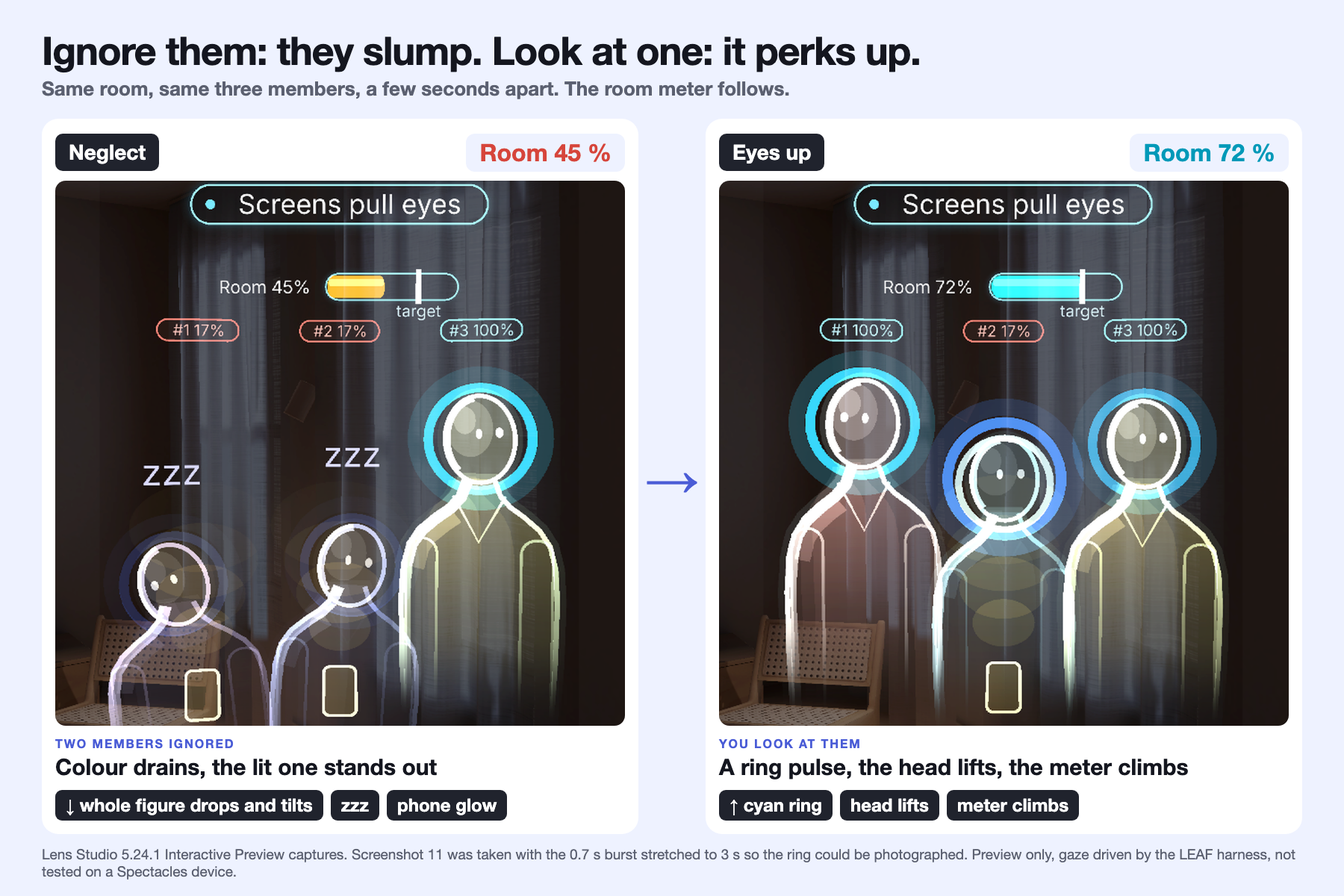
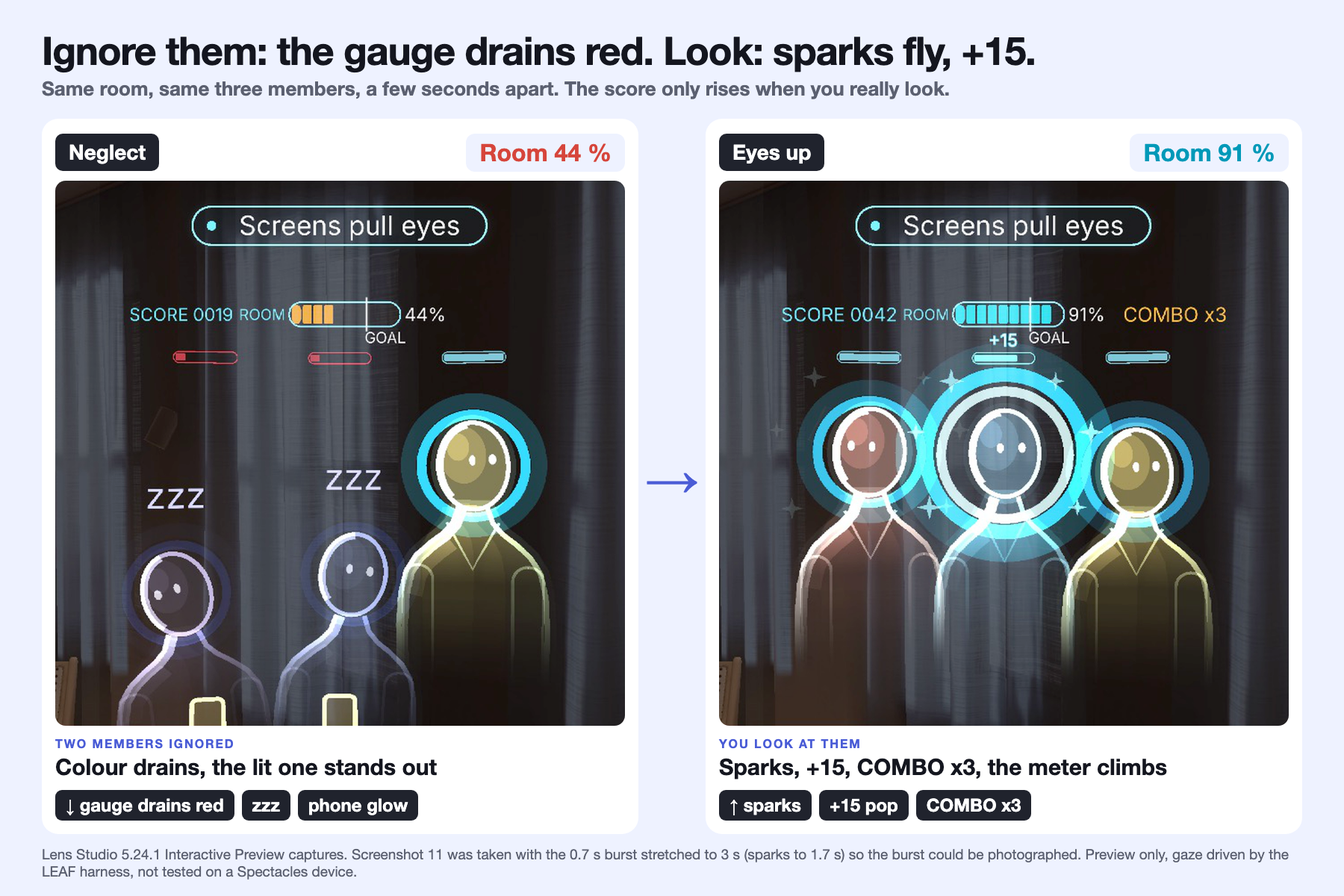
feat: game-layer stills and copy - level select, score and combo, gauges, sparks and NEW BEST in every devpost image and walkthrough still, sparks follow the burst for captures, bigger Again, spec-matrix and build notes

diff --git a/scripts/gallery/slump-perk.html b/scripts/gallery/slump-perk.html
@@ -12,16 +12,16 @@
 .chip{background:#20232d;color:#fff;font-size:24px;font-weight:700;border-radius:9px;padding:6px 14px}
 </style>
 <div class="wrap">
- <h1>Ignore them: they slump. Look at one: it perks up.</h1>
- <div class="sub">Same room, same three members, a few seconds apart. The room meter follows.</div>
+ <h1>Ignore them: the gauge drains red. Look: sparks fly, +15.</h1>
+ <div class="sub">Same room, same three members, a few seconds apart. The score only rises when you really look.</div>
  <div class="row">
-  <div class="card"><div class="hd"><span class="tag">Neglect</span><span class="badge amber">Room 45 %</span></div><div class="im" style="background-image:url('../../devpost/screenshots/10-engagement-slump.png')"></div>
+  <div class="card"><div class="hd"><span class="tag">Neglect</span><span class="badge amber">Room 44 %</span></div><div class="im" style="background-image:url('../../devpost/screenshots/10-engagement-slump.png')"></div>
    <div class="k" style="margin-top:14px">Two members ignored</div><div class="t">Colour drains, the lit one stands out</div>
-   <div class="chips"><span class="chip">&#8595; whole figure drops and tilts</span><span class="chip">zzz</span><span class="chip">phone glow</span></div></div>
+   <div class="chips"><span class="chip">&#8595; gauge drains red</span><span class="chip">zzz</span><span class="chip">phone glow</span></div></div>
   <div class="mid">&rarr;</div>
-  <div class="card"><div class="hd"><span class="tag">Eyes up</span><span class="badge cy">Room 72 %</span></div><div class="im" style="background-image:url('../../devpost/screenshots/11-perk-up.png')"></div>
-   <div class="k" style="margin-top:14px">You look at them</div><div class="t">A ring pulse, the head lifts, the meter climbs</div>
-   <div class="chips"><span class="chip">&#8593; cyan ring</span><span class="chip">head lifts</span><span class="chip">meter climbs</span></div></div>
+  <div class="card"><div class="hd"><span class="tag">Eyes up</span><span class="badge cy">Room 91 %</span></div><div class="im" style="background-image:url('../../devpost/screenshots/11-perk-up.png')"></div>
+   <div class="k" style="margin-top:14px">You look at them</div><div class="t">Sparks, +15, COMBO x3, the meter climbs</div>
+   <div class="chips"><span class="chip">&#8593; sparks</span><span class="chip">+15 pop</span><span class="chip">COMBO x3</span></div></div>
  </div>
- <div class="foot">Lens Studio 5.24.1 Interactive Preview captures. Screenshot 11 was taken with the 0.7 s burst stretched to 3 s so the ring could be photographed. Preview only, gaze driven by the LEAF harness, not tested on a Spectacles device.</div>
+ <div class="foot">Lens Studio 5.24.1 Interactive Preview captures. Screenshot 11 was taken with the 0.7 s burst stretched to 3 s (sparks to 1.7 s) so the burst could be photographed. Preview only, gaze driven by the LEAF harness, not tested on a Spectacles device.</div>
 </div>

diff --git a/scripts/gallery/compare.html b/scripts/gallery/compare.html
@@ -11,13 +11,13 @@
 </style>
 <div class="wrap">
  <h1>The tip changes the next run</h1>
- <div class="sub">Run 1 ignores the left and gets a C. Run 2 follows the tip and gets an A.</div>
+ <div class="sub">Run 1 ignores the left: C, 155 points. Run 2 follows the tip: A, 223 points, NEW BEST.</div>
  <div class="row">
   <div class="card"><div class="im" style="background-image:url('src/run1-summary.png');background-position:-256px -58px;background-size:1260px 877px"><span class="cap">Run 1</span></div>
-   <div class="k" style="margin-top:14px">Stares right, ignores the left</div><div class="t"><span class="g1">C &middot; 39</span> &nbsp;balance 46 &nbsp;L / C / R 0 / 30 / 70 %</div><div class="tip">Tip: <span>"Next time, look left more."</span></div></div>
+   <div class="k" style="margin-top:14px">Stares right, ignores the left</div><div class="t"><span class="g1">C &middot; 155 pts</span> &nbsp;balance 46 &nbsp;L / C / R 0 / 30 / 70 %</div><div class="tip">Tip: <span>"Next time, look left more."</span></div></div>
   <div class="mid">press<b>&rarr;</b>Again</div>
   <div class="card"><div class="im" style="background-image:url('src/run2-summary.png');background-position:-256px -58px;background-size:1260px 877px"><span class="cap">Run 2</span></div>
-   <div class="k" style="margin-top:14px">Follows the tip, sweeps the room</div><div class="t"><span class="g2">A &middot; 84</span> &nbsp;balance 89 &nbsp;L / C / R 41 / 26 / 33 %</div><div class="tip">New best (was 39). Tip: <span>"look at the center more."</span></div></div>
+   <div class="k" style="margin-top:14px">Follows the tip, sweeps the room</div><div class="t"><span class="g2">A &middot; 223 pts</span> &nbsp;balance 89 &nbsp;L / C / R 41 / 26 / 33 %</div><div class="tip">NEW BEST (beat 155). Tip: <span>"look at the center more."</span></div></div>
  </div>
  <div class="foot">Scripted gaze, illustrative loop (LEAF capture_loop in the Lens Studio 5.24.1 Interactive Preview), not a user study. Preview only, not tested on a Spectacles device.</div>
 </div>

diff --git a/scripts/gallery/process-image.html b/scripts/gallery/process-image.html
@@ -32,7 +32,7 @@ h1{margin:0;font-size:42px;letter-spacing:-.01em}
 </style>
 <div class="wrap">
 <h1>Eyes Up: process at a glance</h1>
-<div class="sub">Three fixes found by looking at the Interactive Preview, checked by 10 LEAF scenarios and 198 tests.</div>
+<div class="sub">Three fixes found by looking at the Interactive Preview, checked by 10 LEAF scenarios and 222 tests.</div>
 <div class="row r1">
  <div class="card"><div class="k">Fix 1 &middot; Halo</div><div class="t">Pale halo washed out, saturated cyan reads</div>
   <div class="pair">
@@ -62,7 +62,7 @@ h1{margin:0;font-size:42px;letter-spacing:-.01em}
 <div class="row r2">
  <div class="card checks2"><div class="k">Checks &middot; logic in Node, Lens in LEAF</div>
   <div class="c"><span class="big">10 / 10</span><span class="note">LEAF scenarios PASSED in the Interactive Preview</span></div>
-  <div class="c"><span class="big2">198</span><span class="note">unit and integration tests, typecheck and lint clean</span></div></div>
+  <div class="c"><span class="big2">222</span><span class="note">unit and integration tests, typecheck and lint clean</span></div></div>
  <div class="card"><div class="k">Learning loop &middot; Run 1 vs Run 2 (scripted gaze, illustrative, not a user study)</div>
   <table class="runs"><tr><th></th><th>Grade</th><th>Balance</th><th>Left / Center / Right</th><th>Longest look-away</th><th>Tip shown</th></tr>
    <tr><td>Run 1</td><td class="g c1">C &middot; 39</td><td>46</td><td>0 / 30 / 70 %</td><td>28 s left</td><td>look left more</td></tr>

diff --git a/Assets/Scripts/AudienceRig.ts b/Assets/Scripts/AudienceRig.ts
@@ -155,6 +155,8 @@ const SPARK_ANGLES_DEG = [15, 55, 125, 165, 215, 325];
 const SPARK_R0 = 15;
 const SPARK_R1 = 25;
 const SPARK_SECONDS = 0.4;
+/** Sparks last this share of the perk-up burst (0.4 s of the 0.7 s burst), so a burst stretched for a capture stretches them too. */
+const SPARK_BURST_SHARE = SPARK_SECONDS / 0.7;
 const SPARK_RGB: [number, number, number] = [0.85, 1.0, 1.0];
 /** Halo ring 36 -> 32 cm across: the lit ring's top is 177 cm, which leaves room for the tag row under the meter. */
 const HALO_SCALE = 32 / 36;
@@ -477,7 +479,8 @@ export class AudienceRig {
   }
 
   /** Win cycle 1: per-frame gauge, score pop and perk-up spark animation (EyesUpApp.onUpdate). `clock` is a seconds clock for the red pulse. */
-  tick(dt: number, clock: number): void {
+  tick(dt: number, clock: number, burstSeconds: number): void {
+    const sparkSeconds = burstSeconds * SPARK_BURST_SHARE;
     this.members.forEach((m) => {
       const g = m.tag;
       if (g.root.enabled) {
@@ -500,9 +503,9 @@ export class AudienceRig {
           g.popText.outlineSettings.fill.color = new vec4(0.3, 0.9, 1.0, p.alpha);
         }
       }
-      if (m.sparkAge < SPARK_SECONDS) {
+      if (m.sparkAge < sparkSeconds) {
         m.sparkAge += dt;
-        const k = Math.min(1, m.sparkAge / SPARK_SECONDS);
+        const k = Math.min(1, m.sparkAge / sparkSeconds);
         const ease = 1 - (1 - k) * (1 - k);
         const on = k < 1;
         m.sparks.forEach((so, i) => {

diff --git a/scripts/gallery/hero.html b/scripts/gallery/hero.html
@@ -28,13 +28,13 @@ h1 span{color:var(--cy)}
  <div class="lf"><span><b>Learn</b> eye contact across the whole room</span><span><b>For</b> students, founders, anyone with a talk coming up</span></div>
  <div class="row">
   <div class="card"><div class="im" style="background-image:url('../../devpost/screenshots/10-engagement-slump.png')"></div>
-   <div class="k">Neglect</div><div class="t">Ignore them: they slump, phones come out</div></div>
+   <div class="k">Neglect</div><div class="t">Ignore them: the gauge drains red, phones come out</div></div>
   <div class="card"><div class="im" style="background-image:url('../../devpost/screenshots/11-perk-up.png')"></div>
-   <div class="k">Eyes up</div><div class="t">Look at one: a cyan burst, the head lifts</div></div>
+   <div class="k">Eyes up</div><div class="t">Look: sparks, +15, COMBO x3</div></div>
  </div>
  <div class="chips">
-  <div class="chip">Room meter<small>one bar, one number, always in view</small></div>
-  <div class="chip">S / A / B / C grade<small>score, balance and best-previous</small></div>
+  <div class="chip">Score &amp; combo<small>points only for real eye contact</small></div>
+  <div class="chip">Stars &amp; NEW BEST<small>beat your stage score, again and again</small></div>
   <div class="chip">Nudge<small>chime and chevron for the side you ignore</small></div>
   <div class="chip">Cue card<small>notes that shrink to a tag</small></div>
  </div>

diff --git a/Assets/Scripts/SummaryPanel.ts b/Assets/Scripts/SummaryPanel.ts
@@ -235,7 +235,8 @@ export class SummaryPanel extends BaseScriptComponent {
     // Cycle 5 (R1): Again is the only filled cyan button and says what it is for; Done and Move stage are outlines.
     // Redesign: all three are outlines with one label size (Heading); only the accent differs (Again is the bright cyan, with a glow).
     // Win cycle 1: Again is the one big mint button (about 2x the others) with "beat 1240" under it; Done and Move stage are small outlines.
-    this.againSub = addButton(buttons, 'AgainButton', 'Again', 24, BUTTON_H, DIST, () => this.onAgain?.(), { icon: 'replay', mint: true, subline: 'beat your score', sublineRole: 'Heading', labelSize: 190, ...big }).subline;
+    this.againSub = addButton(buttons, 'AgainButton', 'Again', 24, BUTTON_H, DIST, () => this.onAgain?.(), { icon: 'replay', mint: true, subline: 'beat your score', sublineRole: 'Heading', labelSize: 150, ...big }).subline;
+    if (this.againSub) this.againSub.size = 100;
     addButton(buttons, 'DoneButton', 'Done', 12, BUTTON_H, DIST, () => this.onDone?.(), { icon: 'check', outline: true, ...big });
     // Pass 6 (artifact F2): Re-place (same size and type role as Again / Done), reachable here once the rehearsal is over (the podium
     // hides it during Rehearsal). Seats the stage again where you now face and restarts the talk.

diff --git a/scripts/gallery/clad-mcp.html b/scripts/gallery/clad-mcp.html
@@ -20,7 +20,7 @@ code{font-family:ui-monospace,Menlo,monospace;font-size:18px;background:#eef0fa;
  <h1>Built with CLAD and the Lens Studio MCP</h1>
  <div class="sub">The logic is tested in Node. The Lens is built, driven and looked at through MCP tools.</div>
  <div class="arch">
-  <div class="node"><div class="k">1 &middot; Core</div><div class="n">Pure TypeScript</div><div class="d">State machine, gaze, engagement, score. 198 tests, no Lens Studio needed.</div></div>
+  <div class="node"><div class="k">1 &middot; Core</div><div class="n">Pure TypeScript</div><div class="d">State machine, gaze, engagement, score. 222 tests, no Lens Studio needed.</div></div>
   <div class="node"><div class="k">2 &middot; Lens</div><div class="n">Lens scripts</div><div class="d">UIKit panels, audience rig, cue card, podium. Thin adapters over the core.</div></div>
   <div class="node"><div class="k">3 &middot; MCP</div><div class="n">Lens Studio MCP</div><div class="d">Compile, refresh Preview, move the camera, run LEAF scenarios, read logs.</div></div>
   <div class="node"><div class="k">4 &middot; LEAF</div><div class="n">10 scenarios</div><div class="d">Scripted gaze and pinches against the real Lens, one at a time.</div></div>

diff --git a/Assets/Scripts/EyesUpApp.ts b/Assets/Scripts/EyesUpApp.ts
@@ -430,7 +430,7 @@ export class EyesUpApp extends BaseScriptComponent {
       this.meter.tick(dt, { score: this.session.score, combo: this.session.combo });
     }
     this.clock += dt;
-    this.rig?.tick(dt, this.clock);
+    this.rig?.tick(dt, this.clock, this.session.t.burstSeconds);
     this.pulseChevron(dt);
   }
 

diff --git a/devpost/submission.md b/devpost/submission.md
@@ -13,8 +13,8 @@ Rehearse your talk with your eyes on the room, not on your notes.
 > **Judge in 60 seconds**
 > 1. **See it:** gallery images 1 and 2 are the whole idea. Members you ignore slump, mute their colour and light a phone; the one you look at stays lit in cyan and the room meter shows how many are with you.
 > 2. **See why it needs glasses:** image 3 is the plan seen from above (you, 2.5 m, three members 42 cm apart, your view) beside a Preview frame, with three design rules.
-> 3. **See the payoff and the loop:** image 4 is the Summary (grade, split, timeline, tip). Image 5 puts Run 1 (C 39) next to Run 2 (A 84) after following the tip.
-> 4. **Check it:** image 6 (process, 10 of 10 LEAF scenarios, 198 tests) and image 7 (how CLAD and the Lens Studio MCP were used). Preview only, gaze driven by the LEAF harness, untested on a device.
+> 3. **See the payoff and the loop:** image 4 is the Summary (grade, split, timeline, tip). Image 5 puts Run 1 (C, 155 points) next to Run 2 (A, 223 points, NEW BEST) after following the tip.
+> 4. **Check it:** image 6 (process, 10 of 10 LEAF scenarios, 222 tests) and image 7 (how CLAD and the Lens Studio MCP were used). Preview only, gaze driven by the LEAF harness, untested on a device.
 
 **Learn:** spread your eye contact across the whole room. **For:** students, founders, anyone with a talk or an interview coming up.
 
@@ -65,11 +65,11 @@ Design rules: **placement** (stage 2.5 m ahead, three members 42 cm apart so the
 Every caption describes what the image shows in the Interactive Preview (preview only, gaze driven by the LEAF harness, not tested on a device). Captured from one fixed preview camera pose toward the plain curtain wall, so the room reads against a quiet background.
 
 1. `devpost/screenshots/00-hero-eyes-up.png`: Eyes Up. Neglect (two members slumped with "zzz", room meter amber, one tag row above the heads) beside the perk-up (cyan ring burst, meter cyan), with the Learn / For line.
-2. `devpost/screenshots/10b-slump-to-perk-up.png`: One image, two moments: ignored members sink, tilt, drain colour and light a phone (meter 40 %); look at one and it perks up with a cyan ring (meter 89 %).
+2. `devpost/screenshots/10b-slump-to-perk-up.png`: Ignore them: the gauge drains red. Look: sparks fly, +15. One image, two moments (meter 44 % and 91 %).
 3. `devpost/screenshots/14-glasses-scale.png`: Why only on glasses: plan seen from above (you, 2.5 m arc, three members 42 cm apart, your view cone) beside a Preview frame, with three rules (placement, targets of 3 cm or larger, show only when needed) and where each is visible.
 4. `devpost/screenshots/06-summary.png`: The payoff: a large grade, attention score, room and balance, zone split, gaze timeline with the longest look-away, one tip, and Again, Done and Move stage as outline buttons (`06b-summary-grade-zones.png` is the close crop).
-5. `devpost/screenshots/12-run-compare.png`: The learning loop: Run 1 (C 39) beside Run 2 (A 84) with each tip. Scripted gaze, illustrative, not a user study.
-6. `devpost/screenshots/09-process-at-a-glance.png`: Process: three fixes found in the Preview (halo, hit area, game layer), the loop table, 10 of 10 LEAF scenarios, 198 tests.
+5. `devpost/screenshots/12-run-compare.png`: The learning loop: Run 1 (C, 155 points) beside Run 2 (A, 223 points, NEW BEST) with each tip. Scripted gaze, illustrative, not a user study.
+6. `devpost/screenshots/09-process-at-a-glance.png`: Process: three fixes found in the Preview (halo, hit area, game layer), the loop table, 10 of 10 LEAF scenarios, 222 tests.
 7. `devpost/screenshots/13-clad-mcp.png`: How CLAD and the Lens Studio MCP were used: architecture strip, four real steps, real log lines.
 8. `devpost/screenshots/03-nudge-chevron.png`: The nudge: an amber double chevron on a dark disc and "Look left" appear for the side you ignored, clear of the "zzz".
 
@@ -83,8 +83,8 @@ Rehearse, read the Summary, press Again (it keeps your settings) and run the tal
 
 | | Grade | Balance | Left / Center / Right | Longest look-away | Nudges | Tip shown |
 |---|---|---|---|---|---|---|
-| Run 1: stares right, ignores the left | C (score 39) | 46 | 0 / 30 / 70 % | 28 s, left | 3 | "Next time, look left more." |
-| Run 2: follows the tip | A (score 84, new best) | 89 | 41 / 26 / 33 % | 12 s, right | 1 | "Next time, look at the center more." |
+| Run 1: stares right, ignores the left | C (155 pts) | 46 | 0 / 30 / 70 % | 29 s, left | 3 | "Next time, look left more." |
+| Run 2: follows the tip | A (223 pts, NEW BEST) | 89 | 41 / 26 / 33 % | 12 s, right | 1 | "Next time, look at the center more." |
 
 | | What the learner gets |
 |---|---|
@@ -136,7 +136,7 @@ We have not measured learning outcomes. These are open questions, not results.
 
 **Not claimed**
 
-- The score and grade are a design heuristic, not a validated measure of speaking skill; nothing is saved between sessions.
+- The score and grade are a design heuristic, not a validated measure of speaking skill; only the best score and stars per stage are kept on the device (Lens persistent storage).
 - The Run 1 vs Run 2 loop is one scripted run (gaze driven by the LEAF harness), not a user study.
 - Everything shown is the Interactive Preview with simulated gaze and pinches; narration and sounds are synthesized locally.
 - Screenshots use 3 audience members and one stretched perk-up burst (screenshot 11); voice features are not in this build. Details: `devpost/build-notes.md`, section "Not claimed (details)".

diff --git a/docs/spec-matrix.md b/docs/spec-matrix.md
@@ -357,5 +357,18 @@ User direction 11-09: keep the luminous-line hologram look, add game feel that r
 | WC1-3 | Game layer (not in mockups) | room meter as HP bar | added | 10 discrete additive segments in a 34 x 7.8 cm capsule (40 before: shortened so the HUD row fits the lens frustum) (`meterSegments`, `goalCrossing`, tested), `ROOM` label left, `NN%` right at Title size, unlit slots are 7 % tints (no grey). A white notch after segment 7 with `GOAL` hanging right of it under the bar replaces the "target" caption (deviation from "GOAL above the bar": the card sits 4.6 cm above the bar, and under the bar the label stays clear of the centre member's +N pop). Upward crossing: 1.05x bar pulse over 250 ms and 7 sparkles sliding out from the notch; downward: the lost segment flashes red 200 ms. No chime (no audio asset for it) |
 | WC1-4 | Game layer (not in mockups) | Summary stamp, stars, NEW BEST, big Again | added | grade letter in an outline-only tile, mint S/A, cyan B, amber C; lands 400 ms after open at 2.2x -> 1.0x in 220 ms with a 6 degree tilt settling in 150 ms and one expanding ring. 3-star row under the letter, 150 ms apart: 1 = finished, 2 = room average >= 0.70, 3 = balance >= 80 (`starsFor`, tested). Header slot: `NEW BEST` (amber, 1.6 s shimmer) or `Best 392`; first run shows nothing. Score line is now the live points (`Score 392`). Again is the mint primary at 24 cm, 2x Done (Done 12, Move stage 14, outlines) with `beat 392` under it. NEW BEST compares live points (`bestBanner`, tested) |
 | WC1-5 | framing (user report 11-09) | edge members not cut off | fixed | Report: side figures looked cut off. The lens frame is narrower than the room the Interactive Preview paints (about 545 of 884 px, 16 degrees half width; build-notes round 2), and a lit outer member's shoulder reached 0.95 of it; the bright rim strokes also ran into the bottom corners (floor 163 cm since round 2). Fix keeps the hologram look: members 40 cm apart (was 42), shoulders 74 % (was 78 %), body fade raised (alpha 0 below 84 cm, full from 118 cm) so every upright stroke fades out above the frame bottom. New `projectToDevice` / `deviceFrameBottomAt` in `core/Framing.ts` and tests: every head, halo, lit shoulder, gauge and the highest "+N" pop inside the lens frame with an 8 % margin at audience 3 and the canonical pose; frame bottom below the fade end. Before/after preview captures looked at (scratchpad `eyesup-game/c1c/full95.jpg` vs `c1f/m10.jpg`, `c1f/m20.jpg`). Slumped members (dropped 18 cm) still meet the frame bottom faintly |
-| WC1-6 | 07 S1 Setup | level select ("Stage 1 - 3 listeners") | open | not in this cycle's item list; next cycle |
-| WC1-7 | stills | refreshed | open | screenshots and walkthrough stills are retaken in the capture stage after this cycle (not here) |
+| WC1-6 | 07 S1 Setup | level select ("Stage 1 - 3 listeners") | done in win cycle 2 (WC2-1) | not in this cycle's item list; next cycle |
+| WC1-7 | stills | refreshed | done in win cycle 2 (WC2-3) | screenshots and walkthrough stills are retaken in the capture stage after this cycle (not here) |
+
+
+## Win cycle 2 (2026-11-10): level select, stored bests, Summary payoff
+
+Preview only, gaze driven by LEAF, not tested on a Spectacles device. `npm run check` 222 tests, 10 LEAF scenarios PASSED live one at a time.
+
+| id | artifact section | expected | status | evidence |
+|---|---|---|---|---|
+| WC2-1 | 07 S1 Setup | panel with title, SETUP pill, subtitle, segmented audience row, "Start rehearsal" | deviation, deliberate | User direction 11-09 (level select). Audience row replaced by three stage cards, `Start rehearsal` by a wide mint `PLAY`, SETUP pill and subtitle removed. Stage cards are 15.6 x 13.5 cm (the cycle item's "~4.2 x 3.4 cm" would not hold four legible lines at 1.1 m) with 92 / 72 text sizes (the item's 18 / 16 px are mockup pixels; sizes chosen for legibility at 1.1 m). Cards keep the `Audience_n` interactable name, so LEAF is unchanged. |
+| WC2-2 | game layer | bests per stage, real numbers only | added | `core/StageProgress.ts` (8 unit tests): stored runs per stage, stars only rise, corrupt data reads as no record, fresh install shows empty stars and "Not played". Kept in Lens persistent storage, confirmed across a Preview refresh. |
+| WC2-3 | 07 S5 Summary | Attention / Room / Balance headline, "First run" pill | deviation, deliberate | `SCORE n` is the headline, room and balance sit under it; banner slot is `NEW BEST` / `Best n` / empty on a first run (pill removed). Again 2x-width mint with `beat n`. 3 stars pop in under the stamp (the earlier report of missing stars did not reproduce after the Lens Studio restart; cause not diagnosed), they are asserted by LEAF `finish_gives_grade` (also NEW BEST across two runs) and visible in 06-summary.png. |
+| WC2-4 | 07 S5 Summary | "14 s away" above the C row | not changed | The label already sits in the nudge row under the C row without touching it (looked at in 06-summary.png and 12-run-compare.png); moving it between rows would collide with row gaps of 1.2 cm. |
+| WC2-5 | stills | refreshed | done | 01 to 06, 06b, 09, 10, 10b, 11, 12, 13, 14, 00 and walkthrough 01 to 08 retaken or rebuilt from Preview. 11 and the sparks in 10b are taken with the burst stretched from 0.7 s to 3 s (sparks follow at 1.7 s); stated on the image. |

diff --git a/README.md b/README.md
@@ -10,7 +10,7 @@
 
 1. **Problem:** people rehearse staring at slides, a phone or a script, so the room never gets practice.
 2. **Spatial moment:** a virtual audience sits 2.5 m ahead and reacts to where you look: the member you face lights up and perks up, the ones you ignore slump and light a phone, and after 8 s a chime and chevron point to the side you forgot.
-3. **Proof:** built with CLAD and the Lens Studio MCP. LEAF 10/10 and 198 tests pass in the Interactive Preview; gaze = head direction, driven by the LEAF harness. **Preview only, not tested on a device.**
+3. **Proof:** built with CLAD and the Lens Studio MCP. LEAF 10/10 and 222 tests pass in the Interactive Preview; gaze = head direction, driven by the LEAF harness. **Preview only, not tested on a device.**
 
 **Learning goal:** spread your eye contact across the whole room. **Feedback:** the audience reacts live, then you get one tip and a grade. **Practice:** press Again and beat your grade. *Limit: learning outcomes are not measured; preview only, gaze is head direction driven by the LEAF harness, untested on a device.*
 
@@ -18,8 +18,8 @@
 
 ![Ignore them and they slump; look at one and it perks up: two moments, room meter 43 % to 81 %](devpost/screenshots/10b-slump-to-perk-up.png)
 ![Summary: grade, attention score, zone split, timeline, one tip and Again](devpost/screenshots/06-summary.png)
-![Run 1 (C 39) next to Run 2 (A 84) after following the tip; scripted gaze, illustrative](devpost/screenshots/12-run-compare.png)
-![Process at a glance: three fixes found in the Preview, 10 of 10 LEAF scenarios, 198 tests](devpost/screenshots/09-process-at-a-glance.png)
+![Run 1 (C, 155 points) next to Run 2 (A, 223 points, NEW BEST) after following the tip; scripted gaze, illustrative](devpost/screenshots/12-run-compare.png)
+![Process at a glance: three fixes found in the Preview, 10 of 10 LEAF scenarios, 222 tests](devpost/screenshots/09-process-at-a-glance.png)
 ![How CLAD and the Lens Studio MCP were used: architecture, four steps, real log lines](devpost/screenshots/13-clad-mcp.png)
 ![Nudge: amber double chevron for the side you ignored](devpost/screenshots/03-nudge-chevron.png)
 
@@ -31,8 +31,8 @@ More screenshots: [01 setup](devpost/screenshots/01-setup-panel.png), [02 halo](
 
 | | Grade | Balance | Left / Center / Right | Longest look-away | Tip shown |
 |---|---|---|---|---|---|
-| Run 1: ignores the left | C (39) | 46 | 0 / 30 / 70 % | 28 s, left | look left more |
-| Run 2: follows the tip | A (84) | 89 | 41 / 26 / 33 % | 12 s, right | look at the center more |
+| Run 1: ignores the left | C (155 pts) | 46 | 0 / 30 / 70 % | 29 s, left | look left more |
+| Run 2: follows the tip | A (223 pts) | 89 | 41 / 26 / 33 % | 12 s, right | look at the center more |
 
 **What I learned building AR** (details in `devpost/learnings.md` and `devpost/screenshots/09-process-at-a-glance.png`): additive displays wash out pale colours; gaze is a head ray, so hit areas must be exact and the scene must fit a narrow view; test the logic in Node and drive the Lens with CLAD and MCP.
 
@@ -42,7 +42,7 @@ Built for Learn AR with SPECS (deadline 2026-11-09 PST). Preview-only is accepta
 
 - Audience placement with camera transform, gaze via head rotation
 - Halo on the watched audience member, chime plus arrow for the neglected side
-- Game layer: audience engagement (slump, phone glow, perk-up burst), room attention meter, attention score with an S/A/B/C grade and a best-previous compare (session memory only)
+- Game layer: audience engagement (slump, phone glow, perk-up burst), room attention meter, attention score with an S/A/B/C grade live score and combo from real eye contact, 3-star rating, level-select stages, and best score and stars per stage kept in Lens persistent storage (nothing else is stored)
 - Cue card on pinch only
 
 ## Status

diff --git a/devpost/build-notes.md b/devpost/build-notes.md
@@ -1038,3 +1038,14 @@ User direction 11-09: keep the ghostly luminous-line hologram look and add game 
 - **Captures looked at.** Window recordings of `capture_game` (before and after: HUD, combo, pops, gauges, sparks, goal crossing) and `capture_summary` (stamp and buttons; the star row did not render in the latest Summary capture, see Known). The NEW BEST banner is covered by unit tests. A `capture_loop` run to check it on screen was interrupted twice by another session driving Lens Studio.
 - **Checks.** `npm run check` passes. LEAF `finish_gives_grade` now asserts that the score rises for each new listener and stays flat on a repeat. `neglect_disengages_then_recovers` asserts that staring pays only the light plus the capped hold.
 - **Known (open).** The 3-star row is coded and `starsFor` is tested, but the last Summary capture (2026-11-10 00:19) shows no stars under the grade. Not diagnosed: the Lens Studio MCP stopped responding at 03:03. The timeline legend fix (`29s away` no longer overlapping nudge dots) is also not yet seen in the Preview. LEAF on this tree: 6 of 10 passed, the other 4 hit MCP timeouts and need a re-run.
+
+
+## Win cycle 2 (2026-11-10): level select, stored bests, Summary payoff
+
+Rows WC2-1 to WC2-5 in `docs/spec-matrix.md`. Preview only, gaze driven by LEAF, not tested on a Spectacles device.
+
+- **Setup is a level select.** Stage cards (Stage 1 / 2 / 3 = 3 / 6 / 9 listeners) with three stars and the best score, a cyan `STAGE 1 - 3 listeners` header, a wide mint `PLAY`, and the placement note as a footer.
+- **Stored bests.** `core/StageProgress.ts` keeps the best points and most stars per stage through Lens persistent storage (survives a Preview refresh). A fresh install shows empty stars and "Not played". `NEW BEST` now compares against the stored best of the same stage.
+- **Summary.** `SCORE n` headline, room and balance below it, `First run` pill removed, 3-star row verified in Preview, bigger Again with `beat n`.
+- **Capture only.** Sparks last 4/7 of the perk-up burst, so `capture_game`'s stretched burst stretches them too (0.4 s normally, 1.7 s for the still).
+- **Checks.** `npm run check` 222 tests, LEAF 10/10 (including `finish_gives_grade` extended for stars and NEW BEST over two real runs). Captures looked at: `capture_loop`, `capture_game`, `capture_podium` window recordings.
